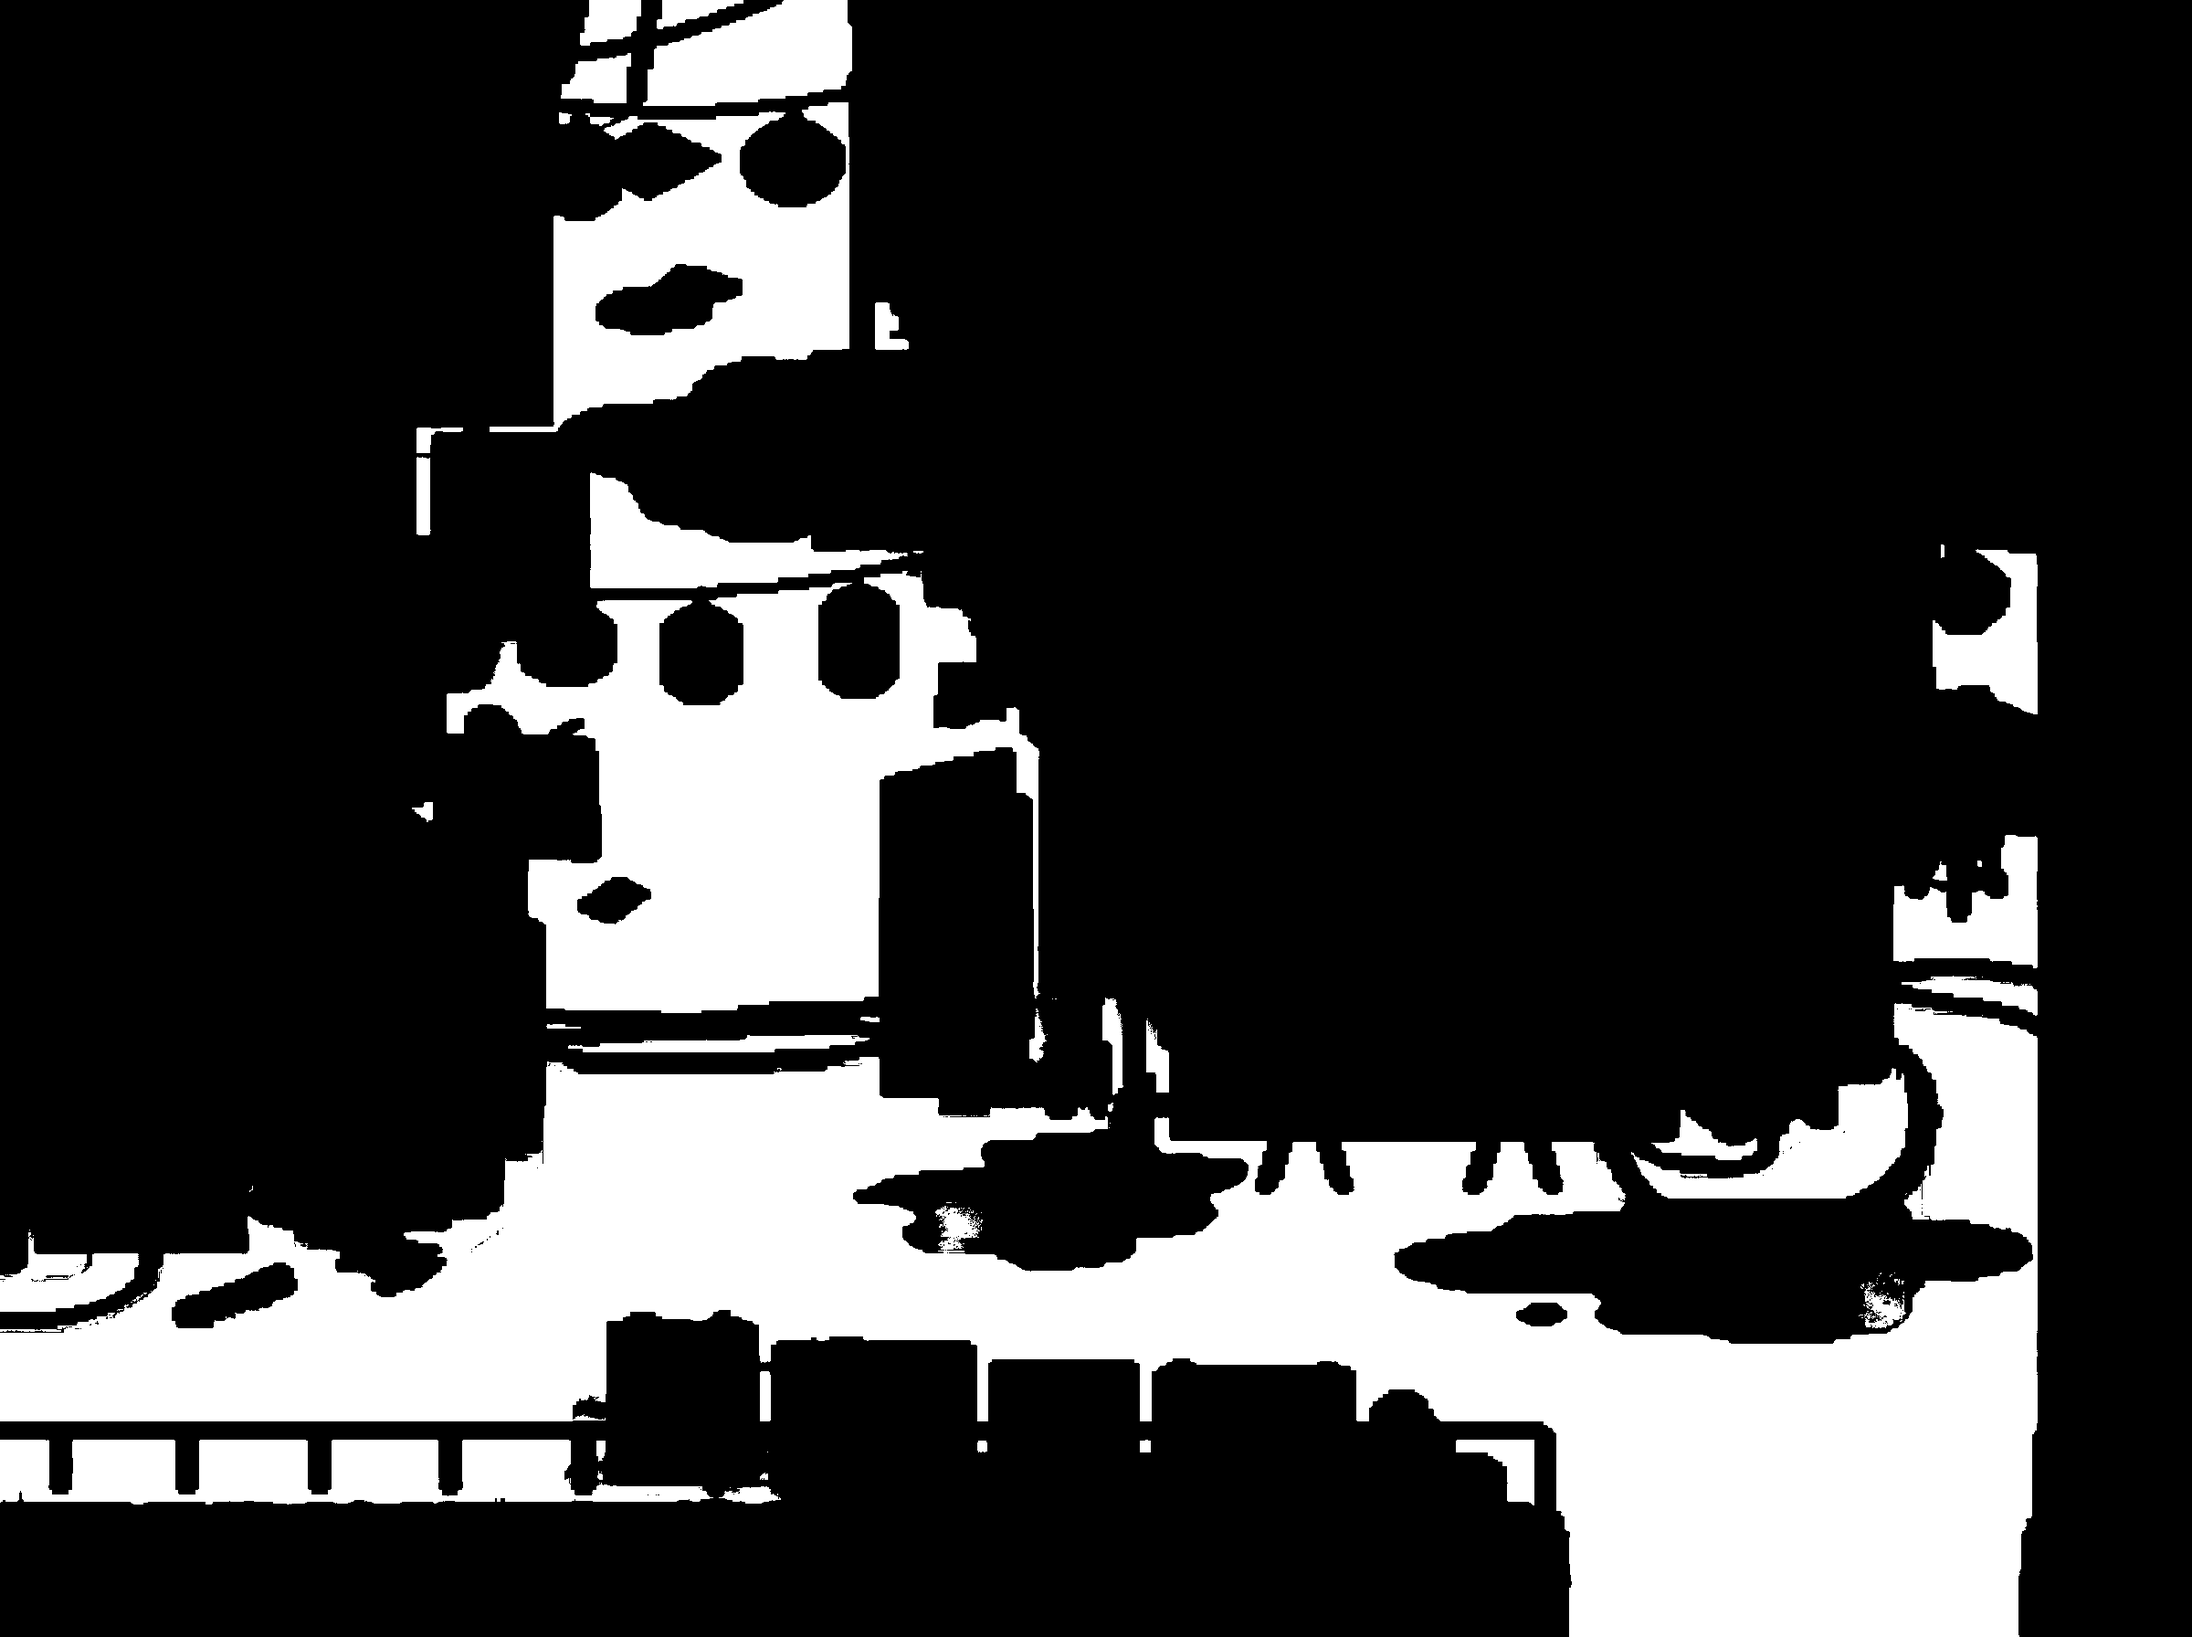
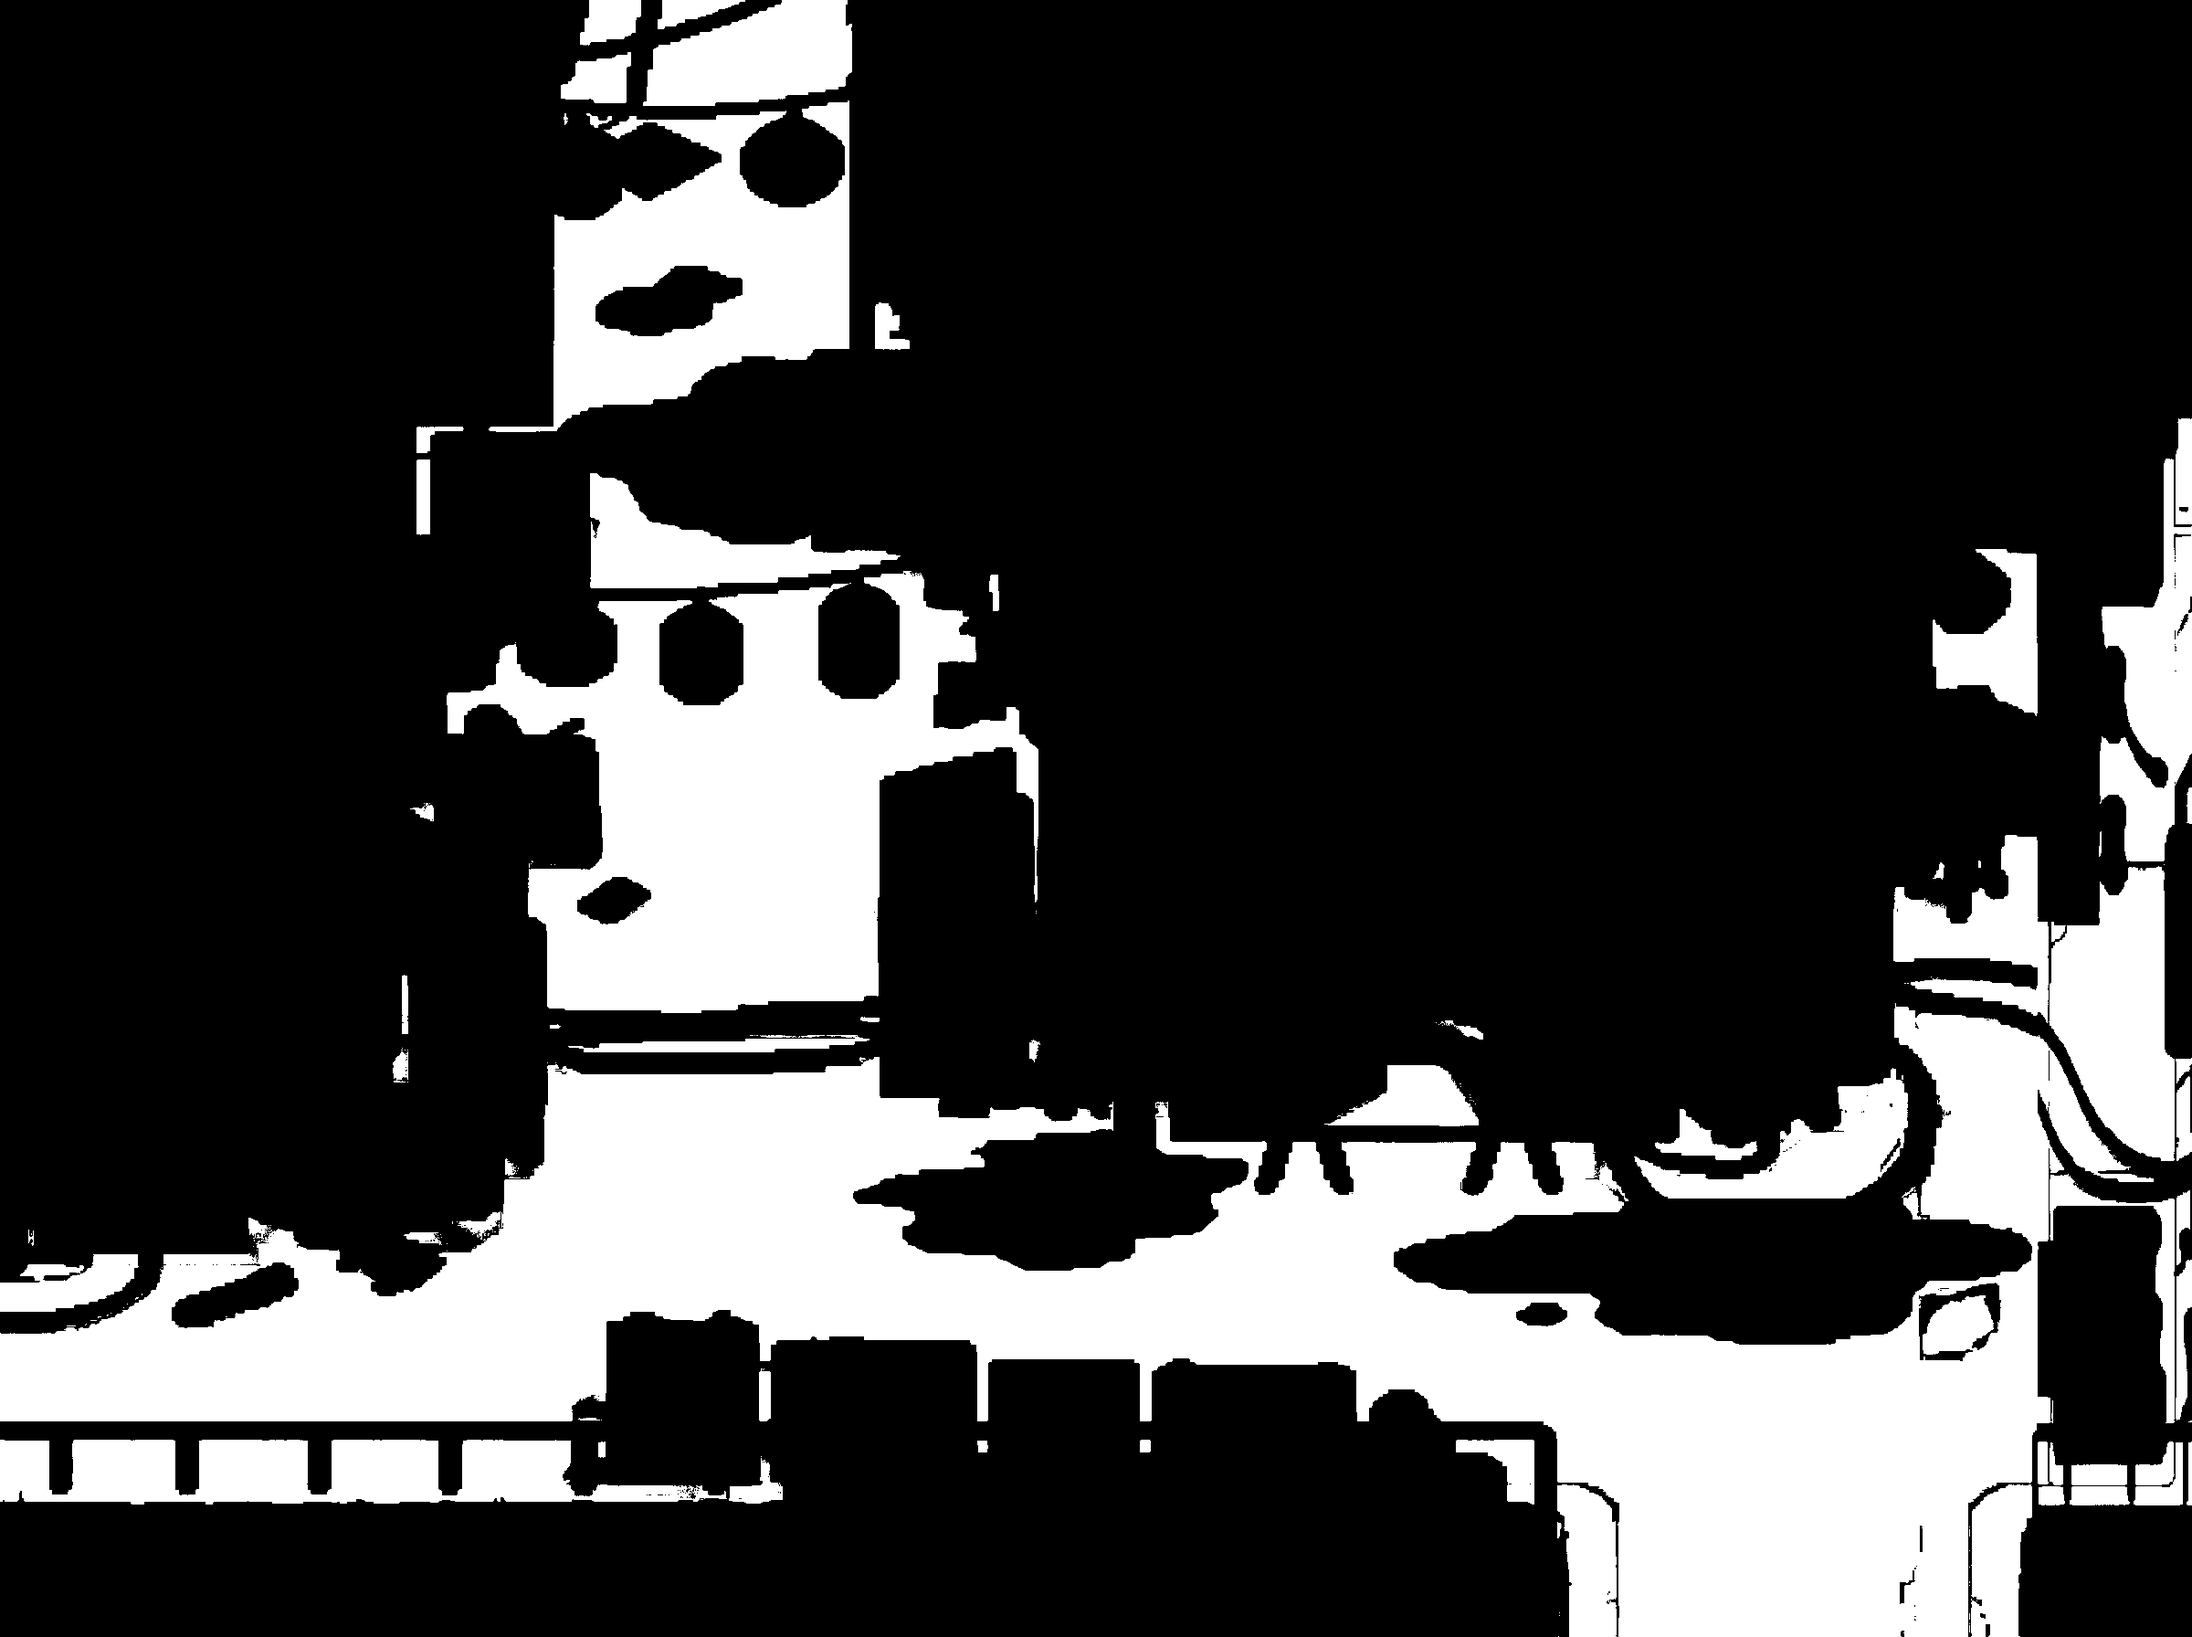
magenta v4: rugs lead prompt + step-over gaps (grates, drains, seams)

diff --git a/tools/art-pipeline/magenta_ground_pass.py b/tools/art-pipeline/magenta_ground_pass.py
@@ -31,13 +31,20 @@ def cli():
 
 
 PROMPT = (
- 'Repaint this EXACT image changing ONLY one thing: every walkable GROUND and FLOOR surface '
- 'is now painted flat pure magenta #FF00FF, like fresh opaque pink-magenta paint poured over '
- 'the entire floor. Every other pixel must stay EXACTLY identical to the input: walls, '
- 'buildings, stalls, counters, crates, plants, awnings, signs, lanterns, wires, water. '
- 'Anything STANDING ON the floor or HANGING IN FRONT of it must remain unpainted and must '
- 'cover/overlap the magenta paint behind it, exactly as it covers the floor today. '
- 'Flat magenta only — NO gradients, NO transparency, NO magenta anywhere except the floor.'
+ 'Repaint this EXACT image: paint EVERY WALKABLE SURFACE flat pure magenta #FF00FF. '
+ 'RUGS, CARPETS AND MATS ARE WALKABLE SURFACES AND MUST BE FULLY PAINTED MAGENTA — do NOT '
+ 'preserve their pattern; they disappear completely under opaque magenta paint, exactly like '
+ 'the floor around them. Also paint: the ground, floors, cables and wires lying on the floor, '
+ 'hoses, flat debris, stains, thresholds, doorway floors, low flat platforms, AND small gaps '
+ 'a person could easily step over or walk across: holes in floor grates, drain grates and '
+ 'drain slots, narrow cracks and seams between floor plates, shallow channels — paint those '
+ 'magenta too, since walking over them is easy. '
+ 'Every other pixel must stay EXACTLY identical to the input: walls, buildings, stalls, '
+ 'counters, crates, shelves, plants, awnings, signs, lanterns, hanging wires, deep water, '
+ 'wide chasms or pits too large to step across. '
+ 'Anything STANDING UPRIGHT on the floor or HANGING ABOVE it must remain unpainted and must '
+ 'cover/overlap the magenta paint behind it. '
+ 'Flat magenta only — NO gradients, NO transparency, NO magenta anywhere except walkable surfaces.'
 )
 
 SCENES = {

diff --git a/tools/art-pipeline/STATUS.md b/tools/art-pipeline/STATUS.md
@@ -1283,3 +1283,16 @@ Model pinning skipped: Vertex exposes no dated alias for gemini-3-pro-image.
   IN FRONT of magenta = free occlusion evidence. Plaza gap fully explained:
   model refused to paint the RUG (object-on-floor reading) — prompt v2 should
   say "including rugs/carpets".
+
+### Run 27b: magenta prompt iterations (Ivan)
+- v2 "anything you can walk on incl. rugs" mid-prompt: plaza rug STILL refused
+  (IoU 0.503, unchanged). v3 rug directive LEADS the prompt in caps: plaza
+  0.877, rug painted. v4 adds Ivan's step-over gaps (grate holes, drains,
+  plate seams): bazaar 0.696/23.3%, anchor 0.686/24.4%, plaza 0.852/19.1%.
+- 15/15 rolls accepted across all versions today — magenta is the most stable
+  NBP pass in the pipeline (intact scene anchors the model).
+- Honest holdouts on anchor: central grate left unpainted as a whole (not just
+  holes); bridge deck refused (matches the 2/5 walk-roll bridge ambiguity —
+  two independent methods now agree); doorway thresholds unpainted. IoU vs
+  walk is no longer the target metric: magenta correctly includes step-over
+  area that walk consensus excludes.
